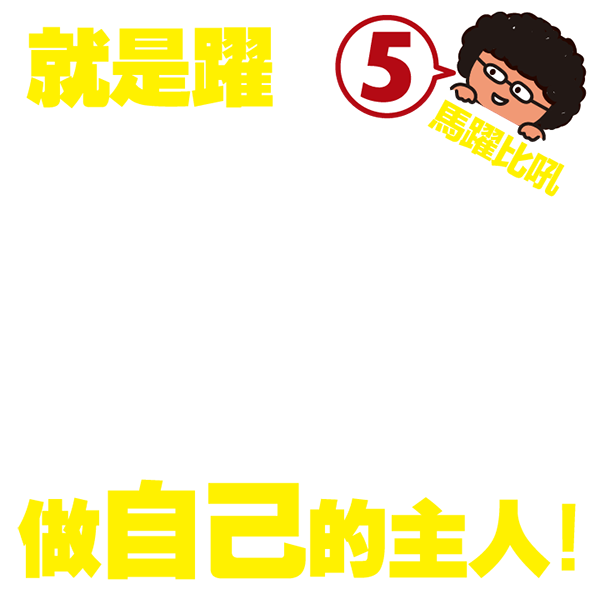
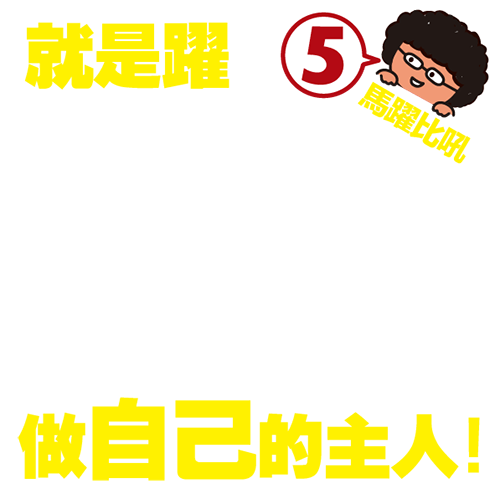
rollback to 500x500

diff --git a/javascript/all.min.js b/javascript/all.min.js
@@ -1,1 +1,1 @@
-function createImage(e,a,t,i,n,r){var o=new Image;o.src="images/object/"+e+".png";var g=new Image;g.src=a;var s=document.getElementById("result");s.width=600,s.height=600;var d=s.getContext("2d");d.rect(0,0,600,600),d.fillStyle="#CCCCCC",d.fill(),d.drawImage(g,t,i,n,r),d.drawImage(o,0,0,600,600);var c=s.toDataURL("image/png"),u=window.navigator.userAgent,l=u.indexOf("MSIE ");if(l>0||navigator.userAgent.match(/Trident.*rv\:11\./)){var m="<p>請按右鍵另存圖片</p>";m+="<img src='"+c+"' alt='10'/>";var p=window.open();p.document.write(m)}else $("#download").attr("href",c),$("#download")[0].click()}function handleFileSelect(e){e.stopPropagation(),e.preventDefault();var a=e.dataTransfer.files;loadImage(a)}function handleDragOver(e){e.stopPropagation(),e.preventDefault(),e.dataTransfer.dropEffect="copy"}function loadImage(e){function a(){r=new Image,r.onload=t,r.src=n.result}function t(){var e=document.getElementById("canvas");e.width=r.width,e.height=r.height;var a=e.getContext("2d");a.drawImage(r,0,0);var t=e.toDataURL("image/png");$("#source").attr("value",t),$userimage.css("background-image","url("+t+")");var i,n,o=document.getElementById("thumb");r.width>r.height?(n=100,i=100*(r.width/r.height)):(i=100,n=100*(r.height/r.width)),o.width=i,o.height=n;var a=o.getContext("2d");a.drawImage(r,0,0,i,n);var g=o.toDataURL("image/png");$("#templates label").css("background-image","url("+g+")"),$("<img/>").attr("src",t).load(function(){var e=$("input[name=template]:checked").val(),a=$userimage.width(),t=[this.width,this.height];resizeDragger(t,a,e),$loading.hide(),$uploading.fadeOut()})}var i,n,r;e?($uploading.fadeIn(),$loading.show(),i=e[0],n=new FileReader,n.onload=a,n.readAsDataURL(i)):alert("悲劇！您的瀏覽器不支援檔案上傳！")}function getImgSize(e){var a=new Image;return a.src=e,[a.width,a.height]}function getBackgroundImage(e){var a=e.css("background-image");return a.replace(/^url\(["']?/,"").replace(/["']?\)$/,"")}function resizeDragger(e,a,t,i){t="undefined"!=typeof t?t:1,i="undefined"!=typeof i?i:0;var n,r,o,g,s;e[0]>e[1]?(n=a/e[1],r=e[0]*n,o=a,g=0,s=.5*(r-a)*-1):(n=a/e[0],r=a,o=e[1]*n,g=.5*(o-a)*-1,s=0),6==t?(s=.2*a*-1,e[0]>e[1]&&(s-=.5*(r-a))):9==t?($sizer.slider("value",65),e[0]>e[1]?(s=.65*a*.13*.5,r*=.65,o*=.65,g=.48*(a-o)):(s=.65*a*.13*.5,r*=.65,o*=.65,g=.48*(a-o))):10==t&&($sizer.slider("value",92),e[0]>e[1]?(r=.92*a,o=r*(e[1]/e[0]),g=.045*a,s=.5*(a-r)):(r=.92*r,o=.92*o,g=.045*a,s=.5*(a-r))),$dragger.css("width",r+"px").css("height",o+"px").css("top",g+"px").css("left",s+"px"),$userimage.css("background-size",r+"px "+o+"px").css("background-position",s+"px "+g+"px")}function getBackgroundSize(e){return size=e.split(" "),[px2int(size[0]),px2int(size[1])]}function getBackgroundPosition(e){return position=e.split(" "),[px2int(position[0]),px2int(position[1])]}function getBackgroundCenterPoint(e,a){return[.5*e[0]+a[0],.5*e[1]+a[1]]}function px2int(e){return parseFloat(e.replace("px",""))}var $userimage=$("#userimage .inner"),$coverimage=$("#coverimage .inner"),$dragger=$("#dragger"),$sizer=$("#size-slider"),$loading=$("#loading");$uploading=$("#uploading"),$(window).load(function(){var e=$userimage.width(),a=getImgSize(getBackgroundImage($userimage));resizeDragger(a,e)}),$(document).ready(function(){$("body").iealert({support:"ie9",title:"您的瀏覽器太舊啦！",text:"請更新您的瀏覽器，我們推薦您使用 Google Chrome",closeBtn:!1,upgradeTitle:"下載 Google Chrome",upgradeLink:"http://www.google.com/chrome/"}),$dragger.draggable({drag:function(e){$userimage.css("background-position",$dragger.css("left")+" "+$dragger.css("top")),0==$userimage.hasClass("dragged")&&$userimage.addClass("dragged");var a=$("input[name=template]:checked").val();(9==a||10==a)&&$userimage.attr("class","inner")}}),$sizer.slider({value:100,max:170,min:30,slide:function(e,a){var t=getBackgroundSize($userimage.css("background-size")),i=getBackgroundPosition($userimage.css("background-position")),n=getBackgroundCenterPoint(t,i);$("<img/>").attr("src",getBackgroundImage($userimage)).load(function(){var e=[this.width,this.height],t=e[0]*a.value/100,i=e[1]*a.value/100,r=n[0]-.5*t,o=n[1]-.5*i;$dragger.css("width",t+"px").css("height",i+"px").css("top",o+"px").css("left",r+"px"),$userimage.css("background-size",t+"px "+i+"px").css("background-position",r+"px "+o+"px")})}}),$("body").delegate("input[name=template]","change",function(){var e=$(this).val(),a="images/object/"+e+".png";$coverimage.css("background-image","url("+a+")"),1==$userimage.hasClass("dragged")?$userimage.attr("class","inner dragged"):$userimage.attr("class","inner"),$("<img/>").attr("src",getBackgroundImage($userimage)).load(function(){var a=[this.width,this.height],t=$userimage.width();resizeDragger(a,t,e)})}),$("#normalSubmit").click(function(){var e=$userimage.width(),a=getBackgroundSize($userimage.css("background-size")),t=getBackgroundPosition($userimage.css("background-position")),i=e/600,n=$("input[name=template]:checked").val(),r=$("#source").val(),o=a[0]/i,g=a[1]/i,s=t[0]/i,d=t[1]/i;createImage(n,r,s,d,o,g)})}),$(window).konami({code:[55,55,55],cheat:function(){$(".banana").slideDown()}}),$(window).konami({code:[54,54,54],cheat:function(){$("h1,#size-slider").delay(100).animate({opacity:"0"},2900),$("#formbuttons,.template-label").delay(400).animate({opacity:"0"},2600),$("#settings").delay(1e3).animate({opacity:"0"},2e3),$(".left-bottom-corner").delay(800).animate({opacity:"0"},2200),$(".preview").animate({top:"-600px",opacity:"0.5"},3e3).animate({width:"0",opacity:"0"},3e3,function(){$("#content").slideUp()})}}),$(function(){var e=document.getElementById("drop");e.addEventListener("dragover",handleDragOver,!1),e.addEventListener("drop",handleFileSelect,!1),$(".uploadBtn").click(function(){$("#uploadInput").click()}),$("#uploadInput").on("change",function(){input=document.getElementById("uploadInput"),loadImage(input.files)})});
+function createImage(e,a,t,i,n,r){var o=new Image;o.src="images/object/"+e+".png";var g=new Image;g.src=a;var s=document.getElementById("result");s.width=500,s.height=500;var d=s.getContext("2d");d.rect(0,0,500,500),d.fillStyle="#CCCCCC",d.fill(),d.drawImage(g,t,i,n,r),d.drawImage(o,0,0,500,500);var c=s.toDataURL("image/png"),u=window.navigator.userAgent,l=u.indexOf("MSIE ");if(l>0||navigator.userAgent.match(/Trident.*rv\:11\./)){var m="<p>請按右鍵另存圖片</p>";m+="<img src='"+c+"' alt='10'/>";var p=window.open();p.document.write(m)}else $("#download").attr("href",c),$("#download")[0].click()}function handleFileSelect(e){e.stopPropagation(),e.preventDefault();var a=e.dataTransfer.files;loadImage(a)}function handleDragOver(e){e.stopPropagation(),e.preventDefault(),e.dataTransfer.dropEffect="copy"}function loadImage(e){function a(){r=new Image,r.onload=t,r.src=n.result}function t(){var e=document.getElementById("canvas");e.width=r.width,e.height=r.height;var a=e.getContext("2d");a.drawImage(r,0,0);var t=e.toDataURL("image/png");$("#source").attr("value",t),$userimage.css("background-image","url("+t+")");var i,n,o=document.getElementById("thumb");r.width>r.height?(n=100,i=100*(r.width/r.height)):(i=100,n=100*(r.height/r.width)),o.width=i,o.height=n;var a=o.getContext("2d");a.drawImage(r,0,0,i,n);var g=o.toDataURL("image/png");$("#templates label").css("background-image","url("+g+")"),$("<img/>").attr("src",t).load(function(){var e=$("input[name=template]:checked").val(),a=$userimage.width(),t=[this.width,this.height];resizeDragger(t,a,e),$loading.hide(),$uploading.fadeOut()})}var i,n,r;e?($uploading.fadeIn(),$loading.show(),i=e[0],n=new FileReader,n.onload=a,n.readAsDataURL(i)):alert("悲劇！您的瀏覽器不支援檔案上傳！")}function getImgSize(e){var a=new Image;return a.src=e,[a.width,a.height]}function getBackgroundImage(e){var a=e.css("background-image");return a.replace(/^url\(["']?/,"").replace(/["']?\)$/,"")}function resizeDragger(e,a,t,i){t="undefined"!=typeof t?t:1,i="undefined"!=typeof i?i:0;var n,r,o,g,s;e[0]>e[1]?(n=a/e[1],r=e[0]*n,o=a,g=0,s=.5*(r-a)*-1):(n=a/e[0],r=a,o=e[1]*n,g=.5*(o-a)*-1,s=0),6==t?(s=.2*a*-1,e[0]>e[1]&&(s-=.5*(r-a))):9==t?($sizer.slider("value",65),e[0]>e[1]?(s=.65*a*.13*.5,r*=.65,o*=.65,g=.48*(a-o)):(s=.65*a*.13*.5,r*=.65,o*=.65,g=.48*(a-o))):10==t&&($sizer.slider("value",92),e[0]>e[1]?(r=.92*a,o=r*(e[1]/e[0]),g=.045*a,s=.5*(a-r)):(r=.92*r,o=.92*o,g=.045*a,s=.5*(a-r))),$dragger.css("width",r+"px").css("height",o+"px").css("top",g+"px").css("left",s+"px"),$userimage.css("background-size",r+"px "+o+"px").css("background-position",s+"px "+g+"px")}function getBackgroundSize(e){return size=e.split(" "),[px2int(size[0]),px2int(size[1])]}function getBackgroundPosition(e){return position=e.split(" "),[px2int(position[0]),px2int(position[1])]}function getBackgroundCenterPoint(e,a){return[.5*e[0]+a[0],.5*e[1]+a[1]]}function px2int(e){return parseFloat(e.replace("px",""))}var $userimage=$("#userimage .inner"),$coverimage=$("#coverimage .inner"),$dragger=$("#dragger"),$sizer=$("#size-slider"),$loading=$("#loading");$uploading=$("#uploading"),$(window).load(function(){var e=$userimage.width(),a=getImgSize(getBackgroundImage($userimage));resizeDragger(a,e)}),$(document).ready(function(){$("body").iealert({support:"ie9",title:"您的瀏覽器太舊啦！",text:"請更新您的瀏覽器，我們推薦您使用 Google Chrome",closeBtn:!1,upgradeTitle:"下載 Google Chrome",upgradeLink:"http://www.google.com/chrome/"}),$dragger.draggable({drag:function(e){$userimage.css("background-position",$dragger.css("left")+" "+$dragger.css("top")),0==$userimage.hasClass("dragged")&&$userimage.addClass("dragged");var a=$("input[name=template]:checked").val();(9==a||10==a)&&$userimage.attr("class","inner")}}),$sizer.slider({value:100,max:170,min:30,slide:function(e,a){var t=getBackgroundSize($userimage.css("background-size")),i=getBackgroundPosition($userimage.css("background-position")),n=getBackgroundCenterPoint(t,i);$("<img/>").attr("src",getBackgroundImage($userimage)).load(function(){var e=[this.width,this.height],t=e[0]*a.value/100,i=e[1]*a.value/100,r=n[0]-.5*t,o=n[1]-.5*i;$dragger.css("width",t+"px").css("height",i+"px").css("top",o+"px").css("left",r+"px"),$userimage.css("background-size",t+"px "+i+"px").css("background-position",r+"px "+o+"px")})}}),$("body").delegate("input[name=template]","change",function(){var e=$(this).val(),a="images/object/"+e+".png";$coverimage.css("background-image","url("+a+")"),1==$userimage.hasClass("dragged")?$userimage.attr("class","inner dragged"):$userimage.attr("class","inner"),$("<img/>").attr("src",getBackgroundImage($userimage)).load(function(){var a=[this.width,this.height],t=$userimage.width();resizeDragger(a,t,e)})}),$("#normalSubmit").click(function(){var e=$userimage.width(),a=getBackgroundSize($userimage.css("background-size")),t=getBackgroundPosition($userimage.css("background-position")),i=e/500,n=$("input[name=template]:checked").val(),r=$("#source").val(),o=a[0]/i,g=a[1]/i,s=t[0]/i,d=t[1]/i;createImage(n,r,s,d,o,g)})}),$(window).konami({code:[55,55,55],cheat:function(){$(".banana").slideDown()}}),$(window).konami({code:[54,54,54],cheat:function(){$("h1,#size-slider").delay(100).animate({opacity:"0"},2900),$("#formbuttons,.template-label").delay(400).animate({opacity:"0"},2600),$("#settings").delay(1e3).animate({opacity:"0"},2e3),$(".left-bottom-corner").delay(800).animate({opacity:"0"},2200),$(".preview").animate({top:"-500px",opacity:"0.5"},3e3).animate({width:"0",opacity:"0"},3e3,function(){$("#content").slideUp()})}}),$(function(){var e=document.getElementById("drop");e.addEventListener("dragover",handleDragOver,!1),e.addEventListener("drop",handleFileSelect,!1),$(".uploadBtn").click(function(){$("#uploadInput").click()}),$("#uploadInput").on("change",function(){input=document.getElementById("uploadInput"),loadImage(input.files)})});

diff --git a/javascript/all.js b/javascript/all.js
@@ -89,7 +89,7 @@ $(document).ready(function()
     basesize = $userimage.width(),
     size = getBackgroundSize($userimage.css('background-size')),
     position = getBackgroundPosition($userimage.css('background-position')),
-    scale = basesize/600;
+    scale = basesize/500;
 
     var
     template = $('input[name=template]:checked').val(),
@@ -114,7 +114,7 @@ $(window).konami({
     $('#formbuttons,.template-label').delay(400).animate({'opacity':'0'},2600)
     $('#settings').delay(1000).animate({'opacity':'0'},2000)
     $('.left-bottom-corner').delay(800).animate({'opacity':'0'},2200)
-    $('.preview').animate({'top':'-600px','opacity':'0.5'},3000).animate({'width':'0','opacity':'0'},3000,function(){
+    $('.preview').animate({'top':'-500px','opacity':'0.5'},3000).animate({'width':'0','opacity':'0'},3000,function(){
       $('#content').slideUp();
     })
   }
@@ -128,15 +128,15 @@ function createImage(template,source,x,y,w,h){
   userimage.src = source;
 
   var resize_canvas = document.getElementById("result");
-  resize_canvas.width = 600;
-  resize_canvas.height = 600;
+  resize_canvas.width = 500;
+  resize_canvas.height = 500;
 
   var ctx = resize_canvas.getContext("2d");
-  ctx.rect(0,0,600,600);
+  ctx.rect(0,0,500,500);
   ctx.fillStyle="#CCCCCC";
   ctx.fill();
   ctx.drawImage(userimage,x,y,w,h);
-  ctx.drawImage(cover,0,0,600,600);
+  ctx.drawImage(cover,0,0,500,500);
 
   var base64 = resize_canvas.toDataURL("image/png");
 
